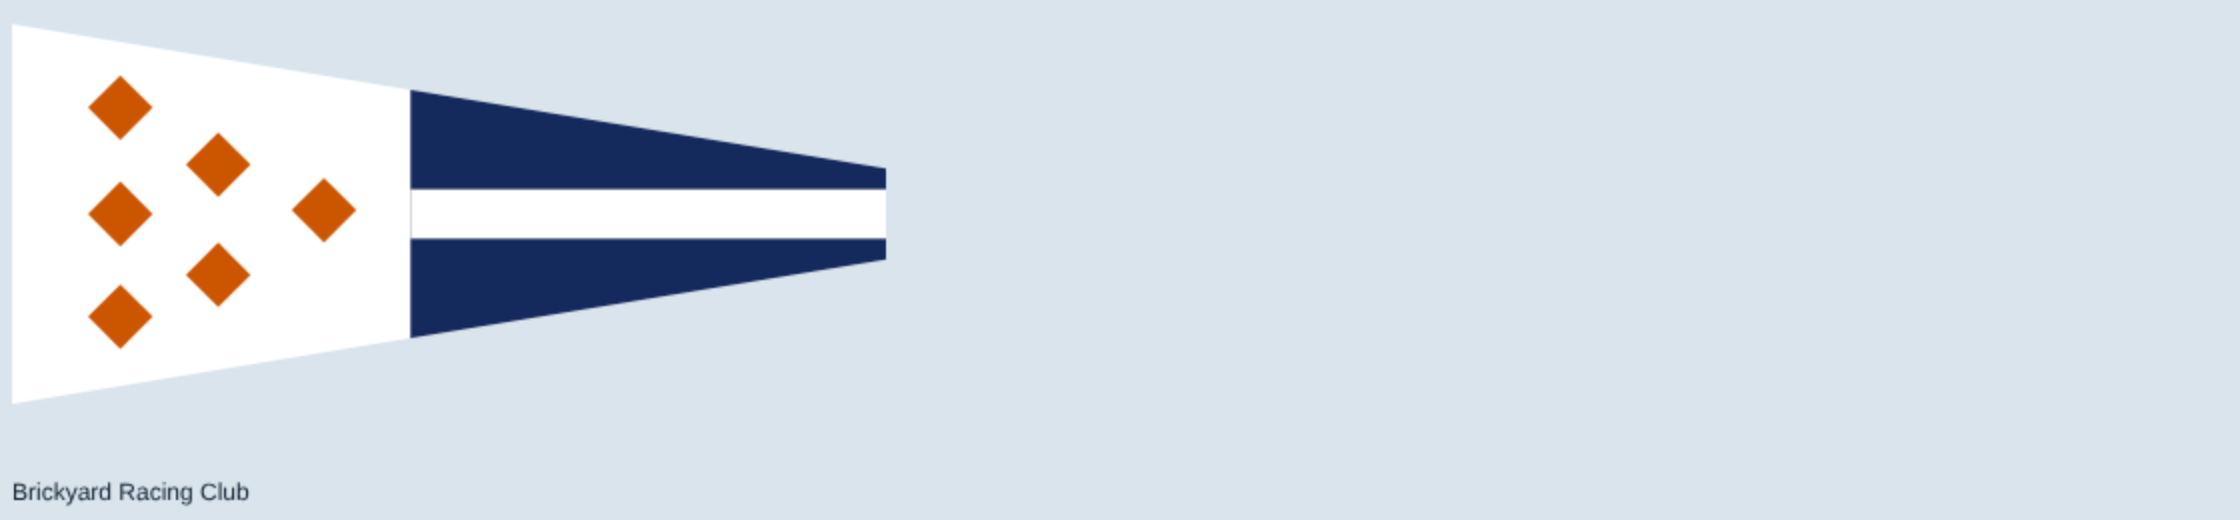
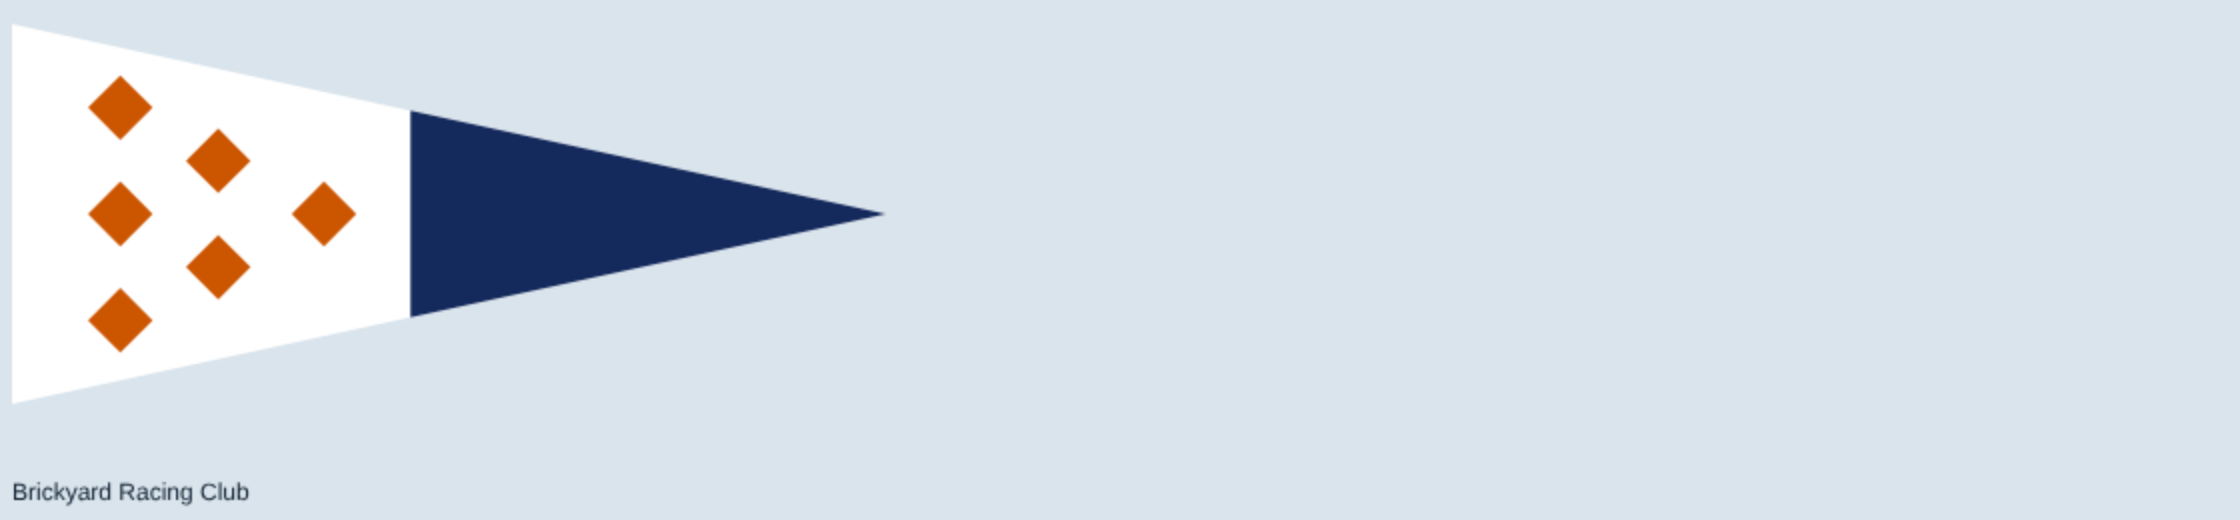
Burgees: Brickyard, a true point, solid blue fly, squares centered on the axis
Claude-Session: https://claude.ai/code/session_012Uu5QjYRsEpBxuz7xgHWhs

diff --git a/src/render/burgeeArt.ts b/src/render/burgeeArt.ts
@@ -210,9 +210,9 @@ export const PARODY_BURGEES: Burgee[] = [
       g.fillStyle = WHITE; g.font = `bold ${Math.round(H * 0.3)}px Arial, Helvetica, sans-serif`; g.textAlign = 'center'; g.textBaseline = 'middle'; g.fillText('T', W * 0.14, H * 0.34); } },
   { id: 'sryc', shape: 'pennant', ratio: 1.5, // Mission Canal: one mission bell (the owner's drawing) at the top-left, its axis pointing straight at the corner, cream on mission-tile red, a plain field
     draw: (g, W, H) => { fill(g, W, H, '#8f3b2b'); bell(g, H * 0.2, H * 0.27, H * 0.269, -Math.atan2(0.2, 0.27), '#f1e3c6'); } },
-  { id: 'ryc', shape: 'blunt', ratio: 2.3, // Brickyard (Richmond YC), on the owner's template (IP flag): white hoist with six dark-orange squares stood on a corner, then a dark-blue fly with a white center stripe
-    draw: (g, W, H) => { fill(g, W, H, WHITE); rect(g, '#14295c', W * 0.456, 0, W, H); rect(g, WHITE, W * 0.456, H * 0.435, W, H * 0.13);
-      for (const [x, y] of [[0.124, 0.22], [0.236, 0.37], [0.124, 0.5], [0.357, 0.49], [0.236, 0.66], [0.124, 0.77]]) { const r = H * 0.085; poly(g, '#cc5500', [W * x, H * y - r], [W * x + r, H * y], [W * x, H * y + r], [W * x - r, H * y]); } } },
+  { id: 'ryc', shape: 'pennant', ratio: 2.3, // Brickyard (Richmond YC), on the owner's template (IP flag): white hoist with six dark-orange squares stood on a corner, then a solid dark-blue fly to the point
+    draw: (g, W, H) => { fill(g, W, H, WHITE); rect(g, '#14295c', W * 0.456, 0, W, H);
+      for (const [x, y] of [[0.124, 0.22], [0.236, 0.36], [0.124, 0.5], [0.357, 0.5], [0.236, 0.64], [0.124, 0.78]]) { const r = H * 0.085; poly(g, '#cc5500', [W * x, H * y - r], [W * x + r, H * y], [W * x, H * y + r], [W * x - r, H * y]); } } },
   { id: 'byc', shape: 'pennant', ratio: 1.667, // Campanile YC (Berkeley, 1929), on the owner's template: five equal stripes to the point, Berkeley blue and California gold; no charge (the name does the work)
     draw: (g, W, H) => { fill(g, W, H, '#003262'); rect(g, '#fdb515', W * 0.2, 0, W * 0.2, H); rect(g, '#fdb515', W * 0.6, 0, W * 0.2, H); } },
   { id: 'csc', shape: 'pennant', ratio: 1.667, // People's: a co-op, so deep red and white; one raised fist on a white disc
